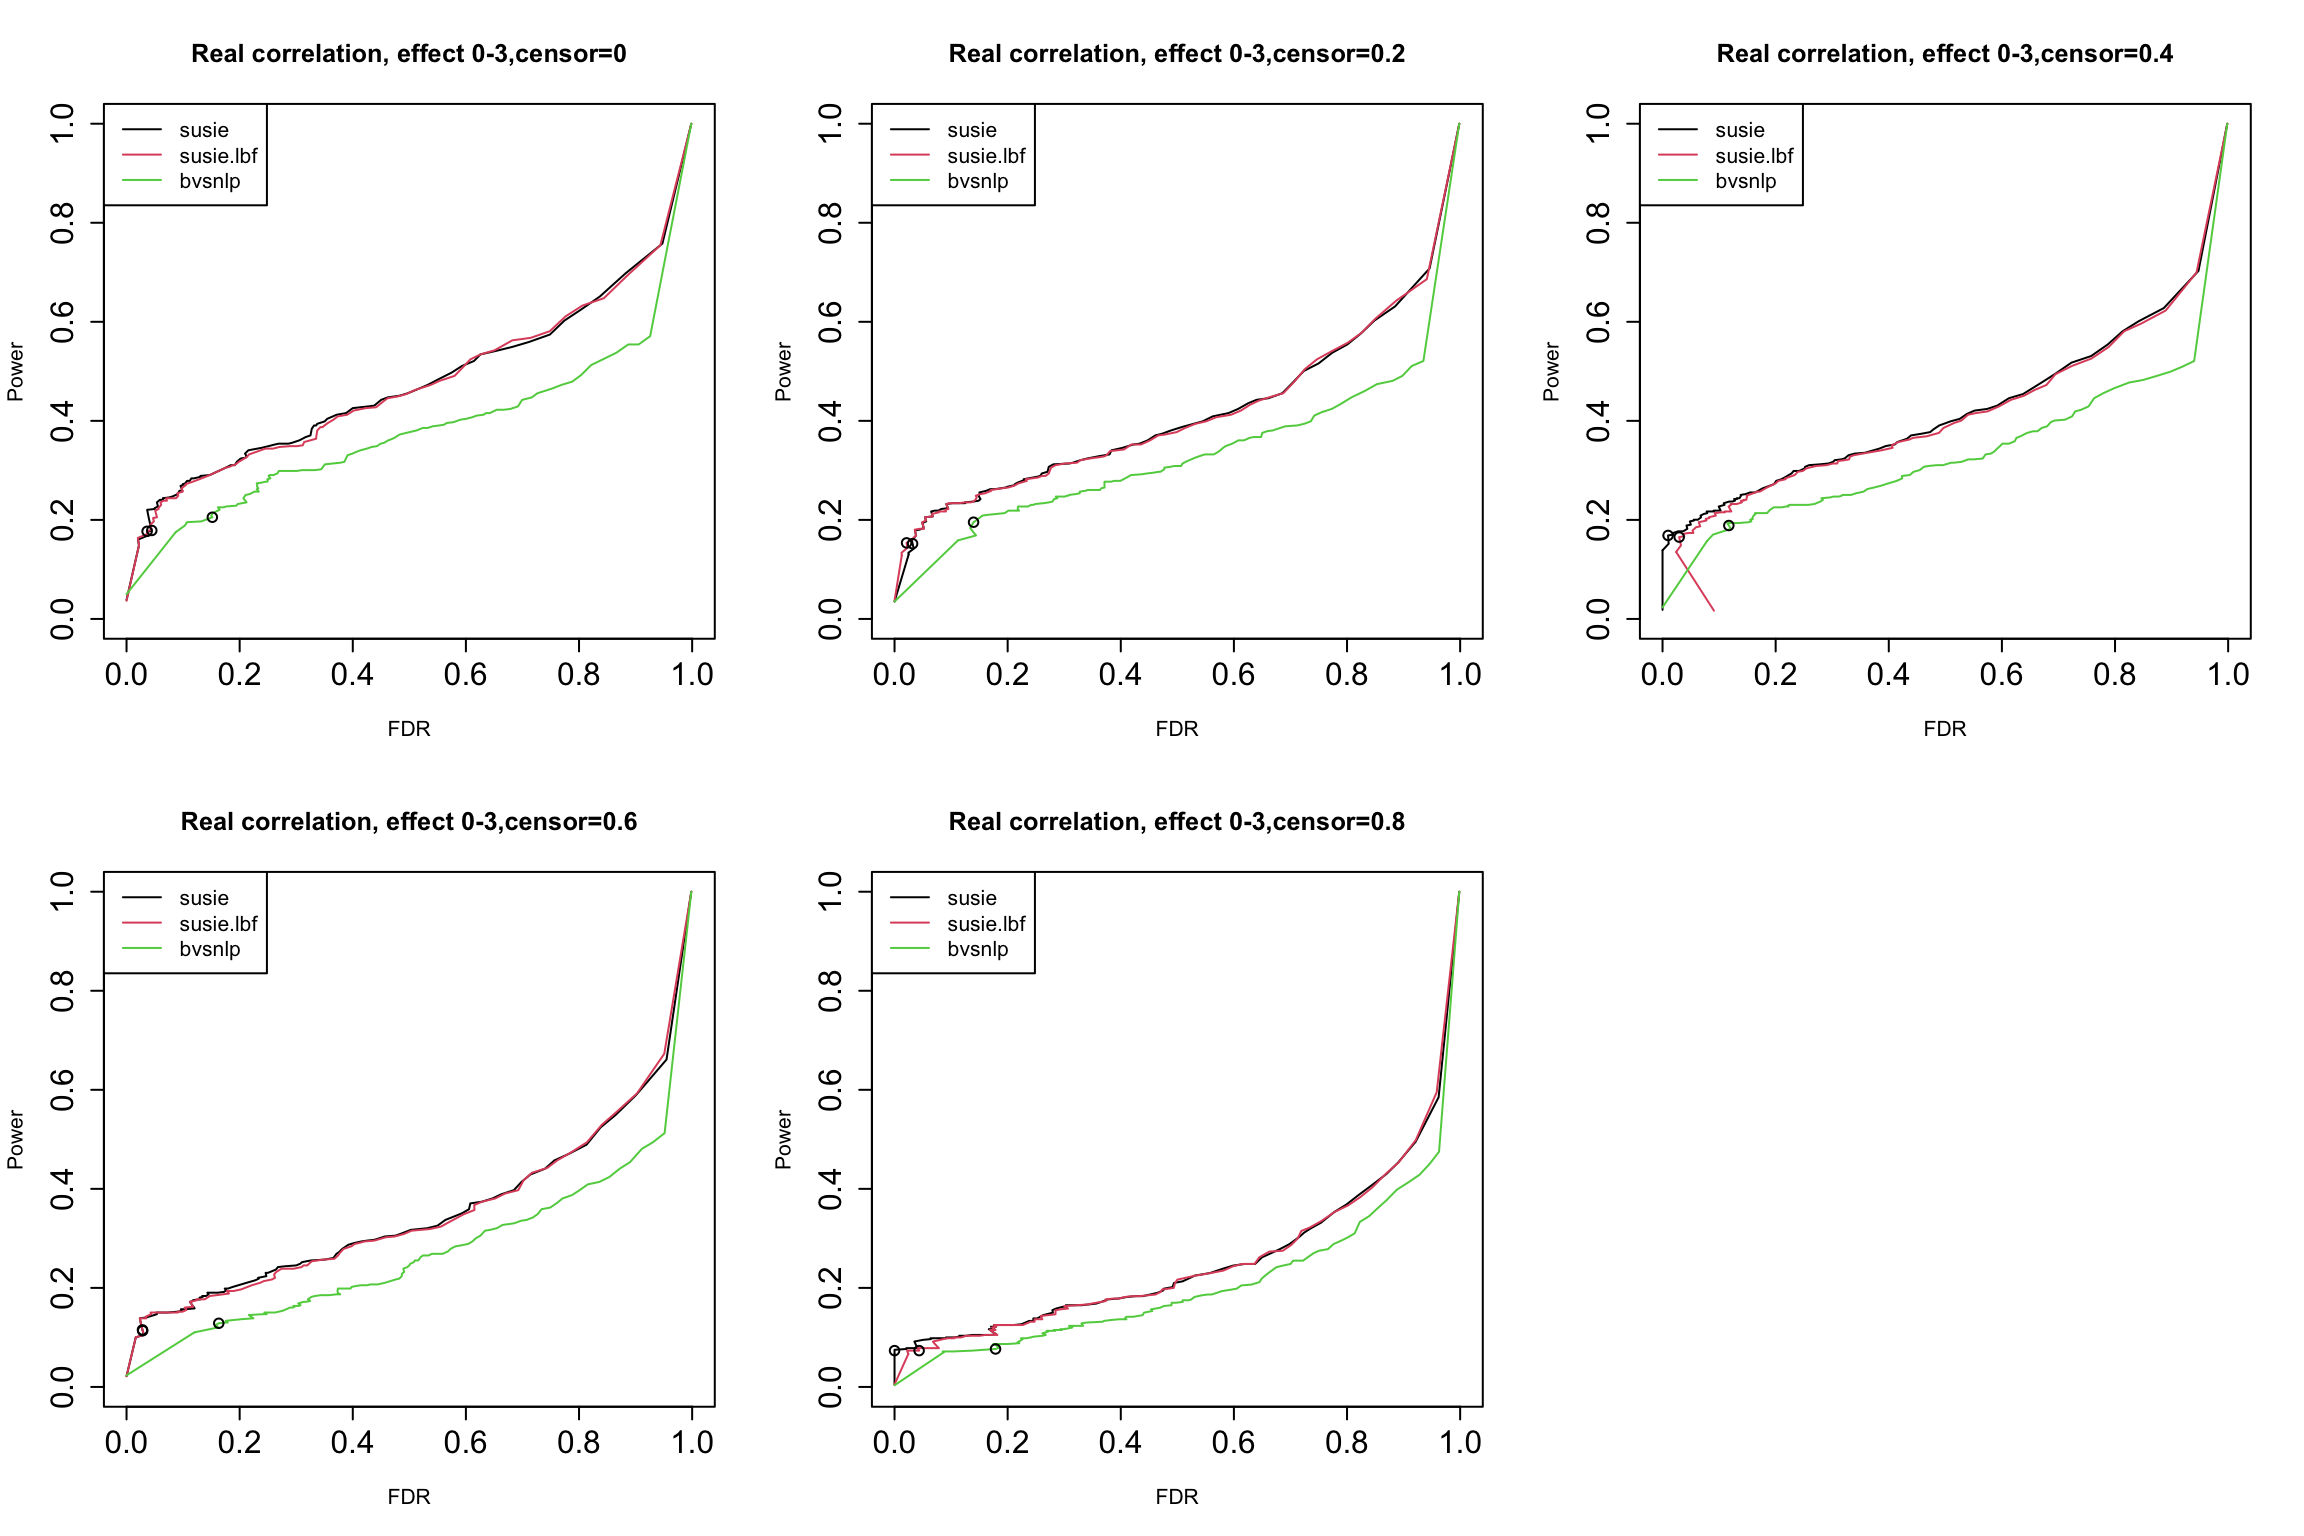
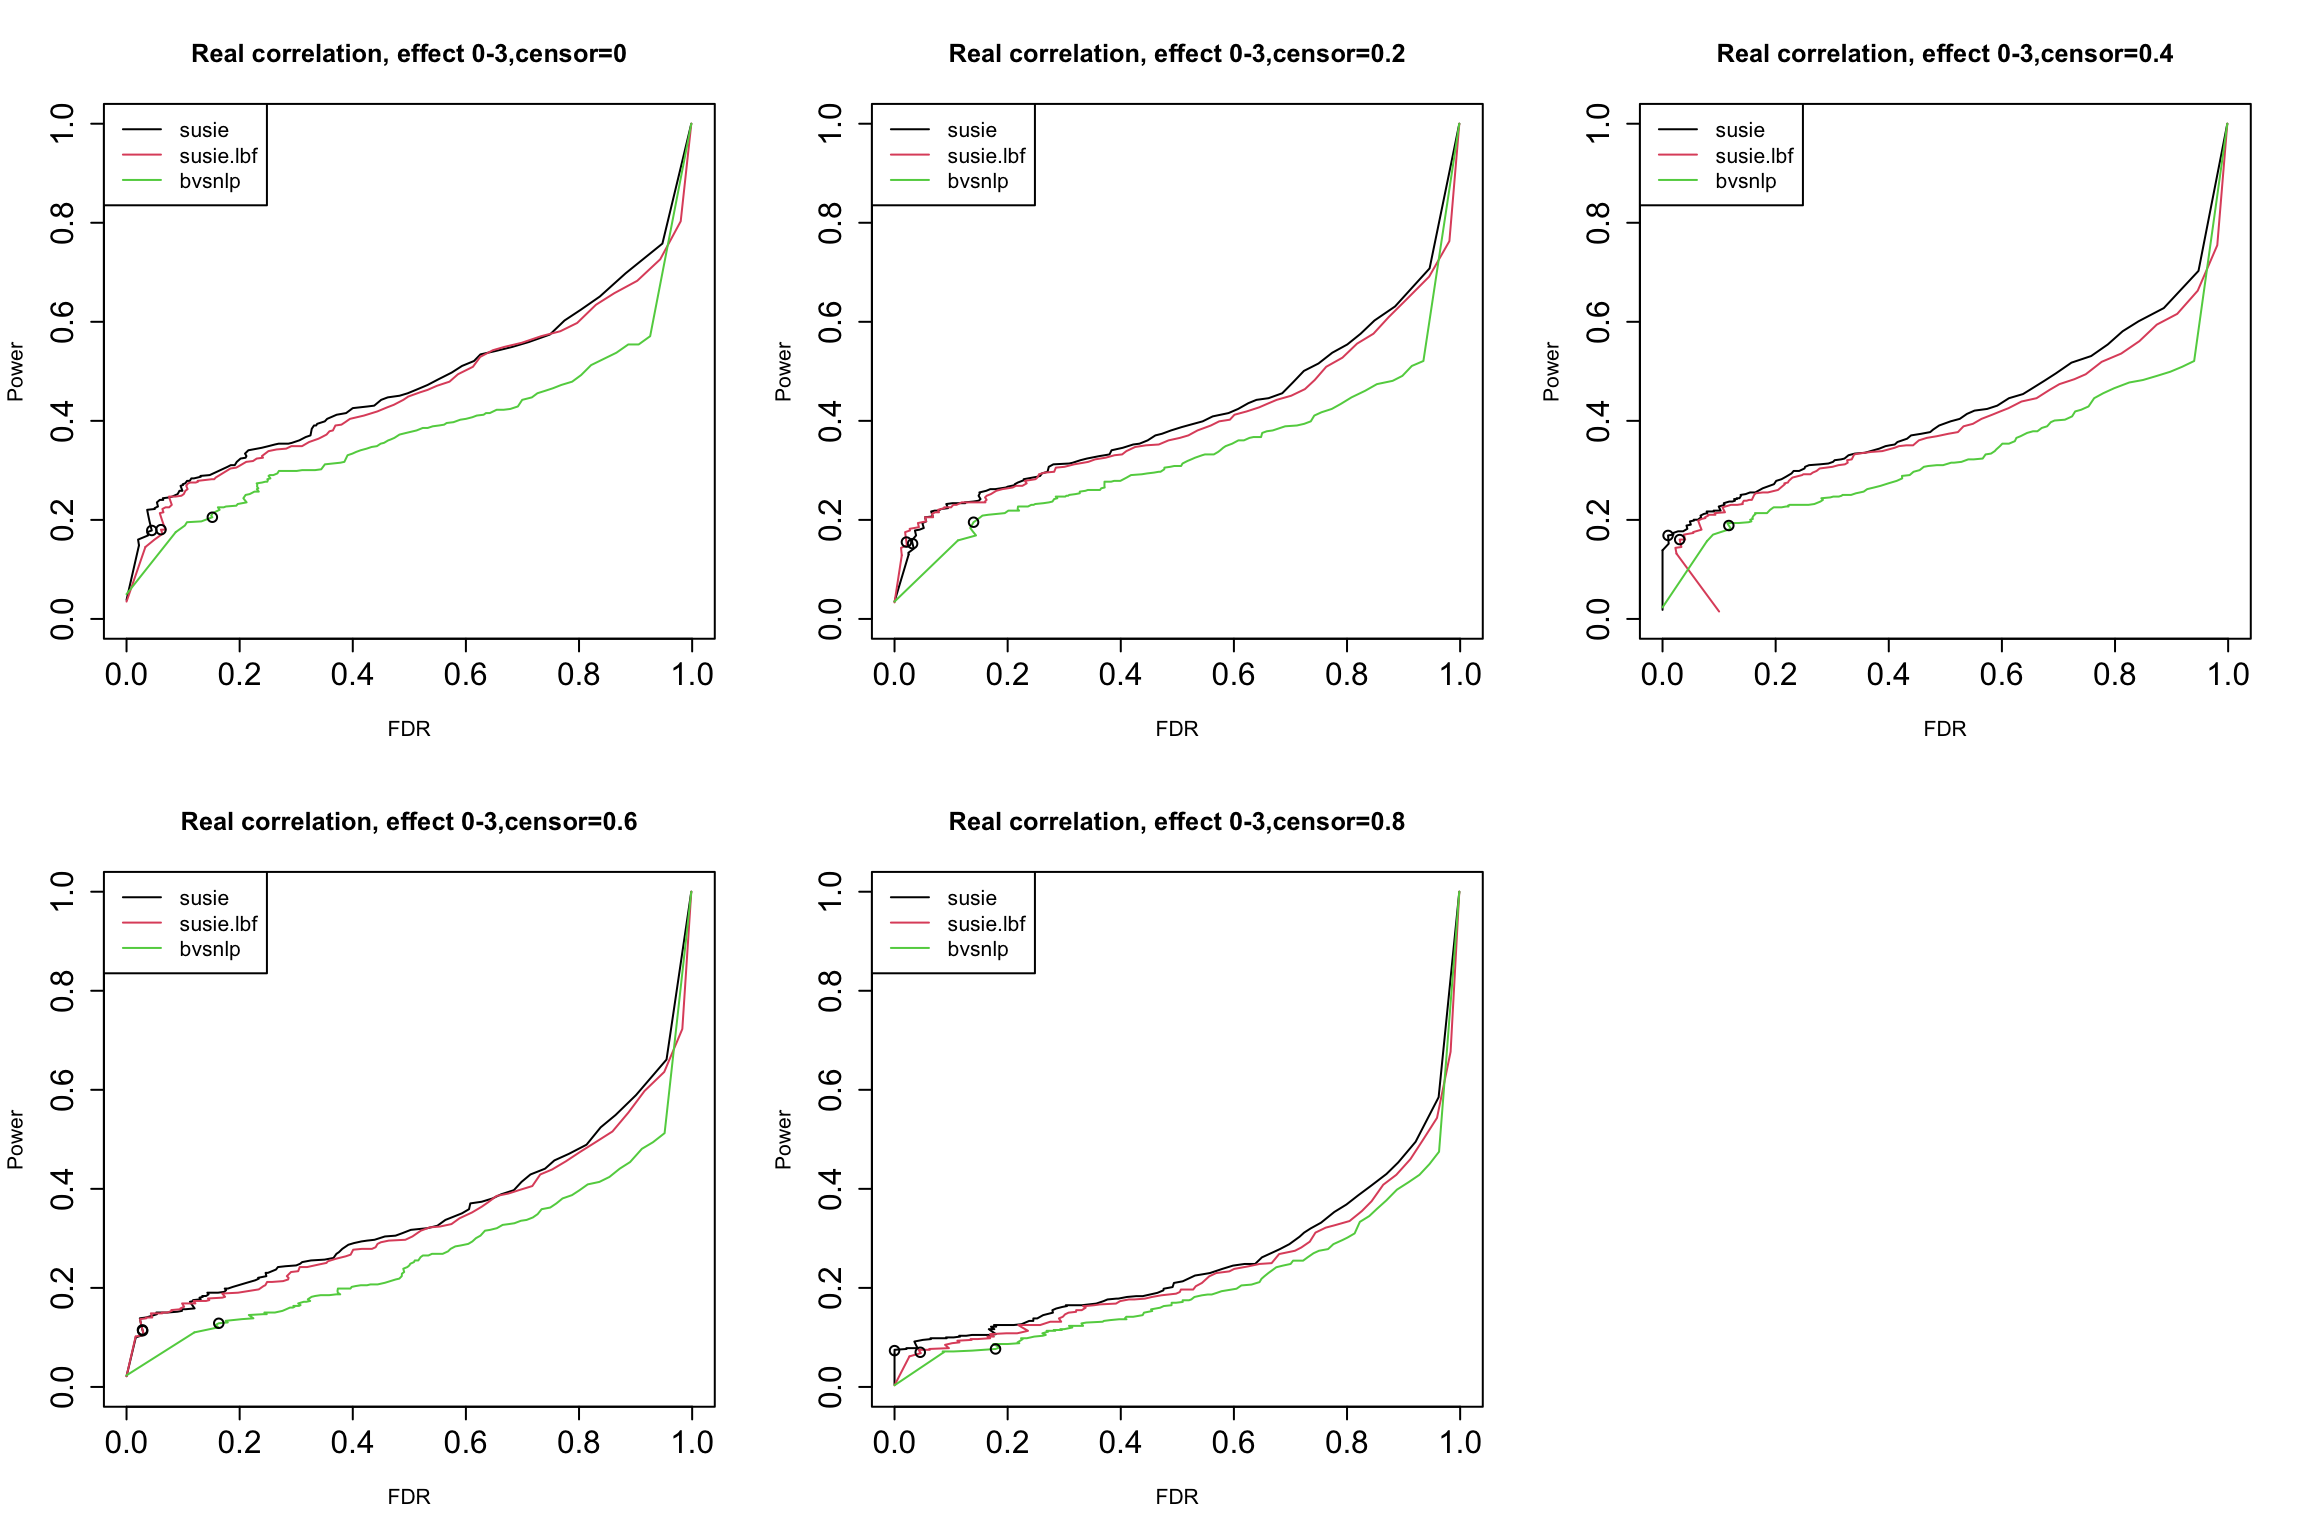
Build site.

diff --git a/docs/susie.convergence.html b/docs/susie.convergence.html
@@ -476,28 +476,31 @@ This reproducible <a href="http://rmarkdown.rstudio.com">R Markdown</a> analysis
 <div class="panel panel-default">
 <div class="panel-heading">
 <p class="panel-title">
-<a data-toggle="collapse" data-parent="#workflowr-checks" href="#strongRepositoryversionstrongahrefhttpsgithubcomyunqiyang0215survivalsusietreed32de66da312a01d2b2a1a96566bedf4cc855aaatargetblankd32de66a"> <span class="glyphicon glyphicon-ok text-success" aria-hidden="true"></span> <strong>Repository version:</strong> <a href="https://github.com/yunqiyang0215/survival-susie/tree/d32de66da312a01d2b2a1a96566bedf4cc855aaa" target="_blank">d32de66</a> </a>
+<a data-toggle="collapse" data-parent="#workflowr-checks" href="#strongRepositoryversionstrongahrefhttpsgithubcomyunqiyang0215survivalsusietree894d50d99bc32a03f0de8db53031bacf41d1b074targetblank894d50da"> <span class="glyphicon glyphicon-ok text-success" aria-hidden="true"></span> <strong>Repository version:</strong> <a href="https://github.com/yunqiyang0215/survival-susie/tree/894d50d99bc32a03f0de8db53031bacf41d1b074" target="_blank">894d50d</a> </a>
 </p>
 </div>
[2 lines of base64/hex data omitted]
 <div class="panel-body">
 <p>
 Great! You are using Git for version control. Tracking code development and connecting the code version to the results is critical for reproducibility.
 </p>
 <p>
-The results in this page were generated with repository version <a href="https://github.com/yunqiyang0215/survival-susie/tree/d32de66da312a01d2b2a1a96566bedf4cc855aaa" target="_blank">d32de66</a>. See the <em>Past versions</em> tab to see a history of the changes made to the R Markdown and HTML files.
+The results in this page were generated with repository version <a href="https://github.com/yunqiyang0215/survival-susie/tree/894d50d99bc32a03f0de8db53031bacf41d1b074" target="_blank">894d50d</a>. See the <em>Past versions</em> tab to see a history of the changes made to the R Markdown and HTML files.
 </p>
 <p>
 Note that you need to be careful to ensure that all relevant files for the analysis have been committed to Git prior to generating the results (you can use <code>wflow_publish</code> or <code>wflow_git_commit</code>). workflowr only checks the R Markdown file, but you know if there are other scripts or data files that it depends on. Below is the status of the Git repository when the results were generated:
 </p>
 <pre><code>
 Ignored files:
+    Ignored:    .DS_Store
     Ignored:    .Rhistory
     Ignored:    .Rproj.user/
+    Ignored:    data/.DS_Store
 
 Unstaged changes:
     Modified:   analysis/run_ser_simple_dat.Rmd
     Modified:   analysis/ser_survival.Rmd
+    Modified:   data/dsc3/susie.lbf.rds
 
 </code></pre>
 <p>
@@ -536,6 +539,23 @@ Message
 </tr>
 </thead>
 <tbody>
+<tr>
+<td>
+html
+</td>
+<td>
+<a href="https://rawcdn.githack.com/yunqiyang0215/survival-susie/ad2c57c12c15f39c1edb6f4a215220c86e6788fa/docs/susie.convergence.html" target="_blank">ad2c57c</a>
+</td>
+<td>
+yunqiyang0215
+</td>
+<td>
+2023-05-29
+</td>
+<td>
+Build site.
+</td>
+</tr>
 <tr>
 <td>
 Rmd
@@ -646,7 +666,45 @@ for (i in 1:5){
   
   legend(&quot;topleft&quot;, legend = c(&quot;susie&quot;, &quot;susie.lbf&quot;, &quot;bvsnlp&quot;), col = c(1,2,3), lty = 1)
 }</code></pre>
-<p><img src="figure/susie.convergence.Rmd/unnamed-chunk-3-1.png" width="1152" style="display: block; margin: auto;" /> The dots indicate PIP threshold = 0.95</p>
+<p><img src="figure/susie.convergence.Rmd/unnamed-chunk-3-1.png" width="1152" style="display: block; margin: auto;" /></p>
+<p>
+<button type="button" class="btn btn-default btn-xs btn-workflowr btn-workflowr-fig" data-toggle="collapse" data-target="#fig-unnamed-chunk-3-1">
+Past versions of unnamed-chunk-3-1.png
+</button>
+</p>
+<div id="fig-unnamed-chunk-3-1" class="collapse">
+<div class="table-responsive">
+<table class="table table-condensed table-hover">
+<thead>
+<tr>
+<th>
+Version
+</th>
+<th>
+Author
+</th>
+<th>
+Date
+</th>
+</tr>
+</thead>
+<tbody>
+<tr>
+<td>
+<a href="https://github.com/yunqiyang0215/survival-susie/blob/ad2c57c12c15f39c1edb6f4a215220c86e6788fa/docs/figure/susie.convergence.Rmd/unnamed-chunk-3-1.png" target="_blank">ad2c57c</a>
+</td>
+<td>
+yunqiyang0215
+</td>
+<td>
+2023-05-29
+</td>
+</tr>
+</tbody>
+</table>
+</div>
+</div>
+<p>The dots indicate PIP threshold = 0.95</p>
 </div>
 <div id="results-using-independent-x-without-data-from-null-model." class="section level3">
 <h3>2. Results using independent X, without data from null model.</h3>
@@ -677,6 +735,43 @@ for (i in 1:5){
   legend(&quot;topleft&quot;, legend = c(&quot;susie&quot;, &quot;susie.lbf&quot;, &quot;bvsnlp&quot;), col = c(1,2,3), lty = 1)
 }</code></pre>
 <p><img src="figure/susie.convergence.Rmd/unnamed-chunk-4-1.png" width="1152" style="display: block; margin: auto;" /></p>
+<p>
+<button type="button" class="btn btn-default btn-xs btn-workflowr btn-workflowr-fig" data-toggle="collapse" data-target="#fig-unnamed-chunk-4-1">
+Past versions of unnamed-chunk-4-1.png
+</button>
+</p>
+<div id="fig-unnamed-chunk-4-1" class="collapse">
+<div class="table-responsive">
+<table class="table table-condensed table-hover">
+<thead>
+<tr>
+<th>
+Version
+</th>
+<th>
+Author
+</th>
+<th>
+Date
+</th>
+</tr>
+</thead>
+<tbody>
+<tr>
+<td>
+<a href="https://github.com/yunqiyang0215/survival-susie/blob/ad2c57c12c15f39c1edb6f4a215220c86e6788fa/docs/figure/susie.convergence.Rmd/unnamed-chunk-4-1.png" target="_blank">ad2c57c</a>
+</td>
+<td>
+yunqiyang0215
+</td>
+<td>
+2023-05-29
+</td>
+</tr>
+</tbody>
+</table>
+</div>
+</div>
 <p>The dots indicate PIP threshold = 0.95.</p>
 </div>
 <div id="results-using-independent-x-with-data-from-null-model." class="section level3">
@@ -708,6 +803,43 @@ for (i in 1:5){
   legend(&quot;topleft&quot;, legend = c(&quot;susie&quot;, &quot;susie.lbf&quot;, &quot;bvsnlp&quot;), col = c(1,2,3), lty = 1)
 }</code></pre>
 <p><img src="figure/susie.convergence.Rmd/unnamed-chunk-5-1.png" width="960" style="display: block; margin: auto;" /></p>
+<p>
+<button type="button" class="btn btn-default btn-xs btn-workflowr btn-workflowr-fig" data-toggle="collapse" data-target="#fig-unnamed-chunk-5-1">
+Past versions of unnamed-chunk-5-1.png
+</button>
+</p>
+<div id="fig-unnamed-chunk-5-1" class="collapse">
+<div class="table-responsive">
+<table class="table table-condensed table-hover">
+<thead>
+<tr>
+<th>
+Version
+</th>
+<th>
+Author
+</th>
+<th>
+Date
+</th>
+</tr>
+</thead>
+<tbody>
+<tr>
+<td>
+<a href="https://github.com/yunqiyang0215/survival-susie/blob/ad2c57c12c15f39c1edb6f4a215220c86e6788fa/docs/figure/susie.convergence.Rmd/unnamed-chunk-5-1.png" target="_blank">ad2c57c</a>
+</td>
+<td>
+yunqiyang0215
+</td>
+<td>
+2023-05-29
+</td>
+</tr>
+</tbody>
+</table>
+</div>
+</div>
 <p>The dots indicate PIP threshold = 0.95.</p>
 </div>
 <div id="assess-susie-cs" class="section level3">
@@ -807,11 +939,11 @@ for (i in 1:3){
 
 coverage
 #             effect:1  effect:2  effect:3
-# censor:0   0.9933775 0.9751773 0.9631450
-# censor:0.2 1.0000000 0.9659091 0.9497487
-# censor:0.4 0.9844961 0.9624060 0.9616438
-# censor:0.6 0.9823009 0.9747899 0.9389920
-# censor:0.8 0.9565217 0.9953704 0.9601449</code></pre>
+# censor:0   0.9934641 0.9718310 0.9585366
+# censor:0.2 0.9934641 0.9619772 0.9452736
+# censor:0.4 0.9923664 0.9589552 0.9673913
+# censor:0.6 0.9745763 0.9703390 0.9421053
+# censor:0.8 0.9680851 0.9906103 0.9633700</code></pre>
 <pre class="r"><code>power_cs = matrix(NA, ncol = 3, nrow = 5)
 censoring = c(0, 0.2, 0.4, 0.6, 0.8)
 colnames(power_cs) = c(&quot;effect:1&quot;, &quot;effect:2&quot;, &quot;effect:3&quot;)
@@ -828,11 +960,11 @@ for (i in 1:3){
 
 power_cs
 #            effect:1  effect:2  effect:3
-# censor:0      0.750 0.6992481 0.6616667
-# censor:0.2    0.765 0.6425000 0.6510851
-# censor:0.4    0.635 0.6566416 0.5916667
-# censor:0.6    0.555 0.5850000 0.5943239
-# censor:0.8    0.440 0.5375000 0.4450000</code></pre>
+# censor:0      0.760 0.6942356 0.6616667
+# censor:0.2    0.760 0.6300000 0.6494157
+# censor:0.4    0.650 0.6591479 0.6016667
+# censor:0.6    0.575 0.5775000 0.5943239
+# censor:0.8    0.455 0.5300000 0.4416667</code></pre>
 <pre class="r"><code>coverage = matrix(NA, ncol = 2, nrow = 5)
 censoring = c(0, 0.2, 0.4, 0.6, 0.8)
 cor_type = c(&quot;real&quot;, &quot;independent&quot;)
@@ -847,11 +979,11 @@ for (i in 1:2){
 
 coverage
 #            real correlation independent
-# censor:0          0.9440389   1.0000000
-# censor:0.2        0.9278351   0.9976581
-# censor:0.4        0.9310345   1.0000000
-# censor:0.6        0.9194444   0.9945652
-# censor:0.8        0.9464286   0.9967105</code></pre>
+# censor:0          0.9371981   1.0000000
+# censor:0.2        0.9222798   0.9930556
+# censor:0.4        0.9366755   1.0000000
+# censor:0.6        0.9194444   0.9919786
+# censor:0.8        0.9492754   0.9967105</code></pre>
 <pre class="r"><code>power_cs = matrix(NA, ncol = 2, nrow = 5)
 censoring = c(0, 0.2, 0.4, 0.6, 0.8)
 colnames(power_cs) = c(&quot;real correlation&quot;, &quot;independent&quot;)
@@ -868,11 +1000,11 @@ for (i in 1:2){
 
 power_cs
 #            real correlation independent
-# censor:0          0.6627713   0.7150000
-# censor:0.2        0.6243740   0.7100000
-# censor:0.4        0.6026711   0.6383333
-# censor:0.6        0.5592654   0.6100000
-# censor:0.8        0.4450000   0.5050000</code></pre>
+# censor:0          0.6560935   0.7216667
+# censor:0.2        0.6076795   0.7150000
+# censor:0.4        0.6110184   0.6466667
+# censor:0.6        0.5525876   0.6183333
+# censor:0.8        0.4416667   0.5050000</code></pre>
 <br>
 <p>
 <button type="button" class="btn btn-default btn-workflowr btn-workflowr-sessioninfo" data-toggle="collapse" data-target="#workflowr-sessioninfo" style="display: block;">
